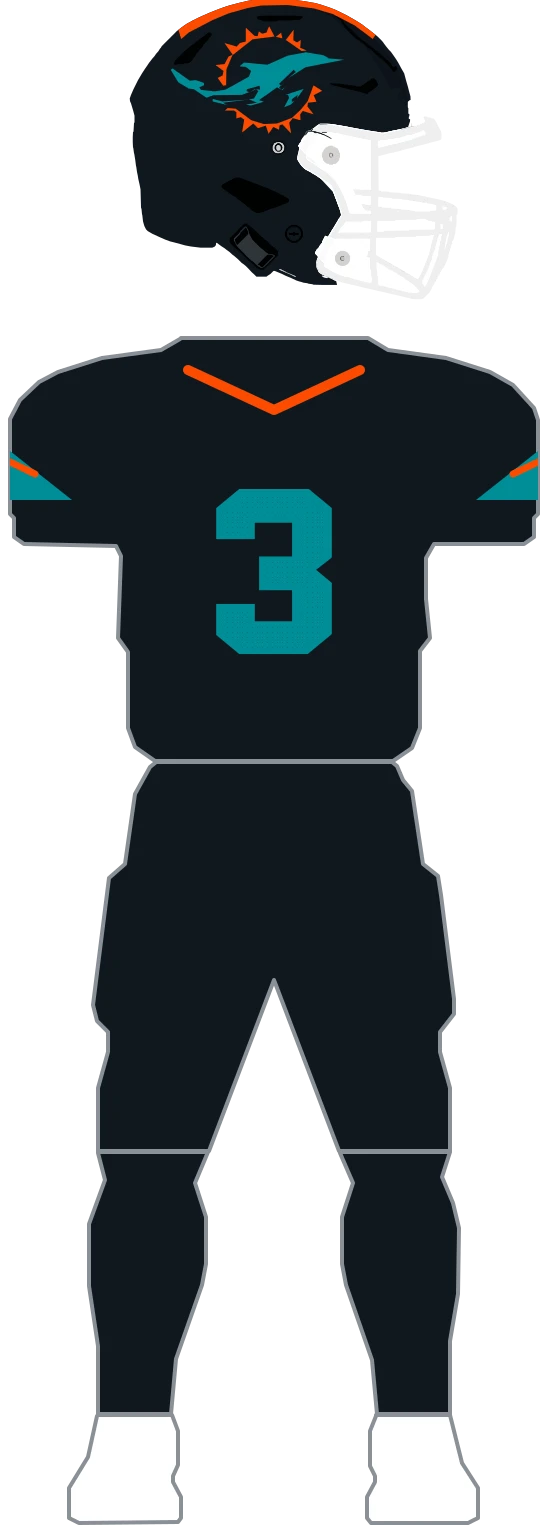
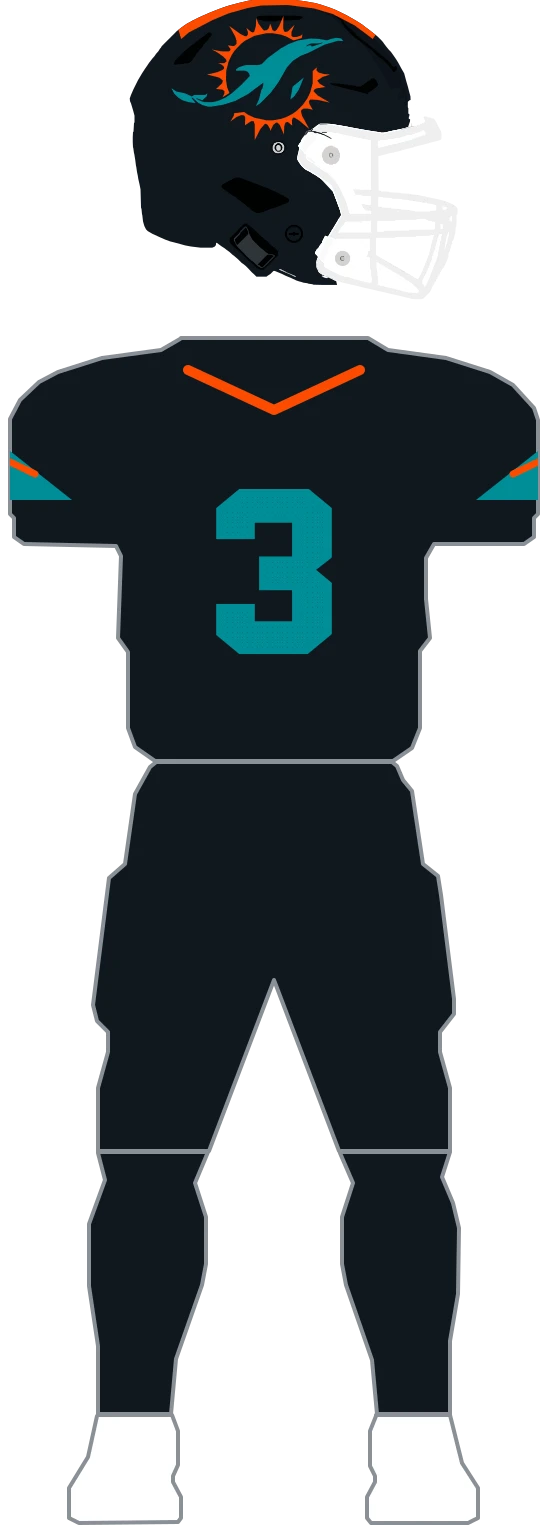
fix(uniforms): re-author Dolphins helmet decal

Changed region(s): [[0.3036, 0.0, 0.6071, 0.0919]]

diff --git a/lib/uniforms/teams/dolphins.ts b/lib/uniforms/teams/dolphins.ts
@@ -23,9 +23,11 @@ export const DOLPHINS_WHITE = '#FFFFFF';
 // teal dolphin breaking through a solid orange ring. The "M" on the throwback dolphin's helmet is
 // dropped (about 2px in the reference).
 export const DOLPHINS_DECAL_SUNBURST_PATH =
-  'M418.0,120.9 L428.6,141.0 L384.8,146.6 L344.2,178.6 L332.3,206.9 L331.7,238.3 L326.0,239.5 L314.8,223.8 L324.8,218.8 L326.6,210.0 L310.4,198.1 L328.5,196.2 L336.7,181.1 L344.8,177.4 L328.5,154.1 L352.9,161.1 L359.2,154.1 L371.1,151.0 L371.1,123.4 L388.6,139.7 L394.8,140.3 L397.3,130.9 L403.6,135.3 L412.3,133.4 L417.3,121.5 Z M466.8,127.8 L466.1,148.5 L473.6,152.9 L481.1,147.9 L479.9,163.6 L493.0,169.2 L482.4,169.8 L451.1,147.9 L466.1,128.4 Z M441.7,133.4 L444.2,144.7 L431.1,141.6 L441.1,134.1 Z M506.8,238.9 L523.7,249.6 L506.8,258.4 L512.4,271.5 L495.5,273.4 L494.3,281.0 L506.8,296.7 L484.9,289.8 L479.9,296.7 L480.5,308.6 L464.9,304.2 L458.0,313.6 L461.8,335.0 L444.2,316.7 L438.6,318.6 L437.4,327.4 L426.1,321.8 L416.7,335.6 L411.1,319.3 L395.5,324.3 L386.1,314.9 L363.6,333.1 L367.9,307.3 L361.1,302.3 L352.3,304.8 L352.3,292.9 L347.9,289.1 L329.2,289.1 L334.8,284.1 L351.0,285.4 L382.3,308.6 L407.3,316.1 L433.6,314.9 L463.6,303.6 L481.1,287.2 L494.9,270.3 L506.2,239.5 Z';
+  'M513.2,202.6 L512.4,208.7 L517.0,213.2 L527.6,216.2 L539.7,217.0 L525.3,221.5 L514.0,229.1 L518.5,235.2 L529.9,242.0 L511.7,245.0 L508.7,246.6 L506.4,250.3 L515.5,259.4 L539.0,273.1 L514.7,267.8 L500.3,267.0 L497.3,270.1 L498.1,275.4 L504.9,287.5 L495.0,285.2 L486.7,285.2 L482.1,288.2 L481.4,291.3 L483.7,299.6 L498.1,326.1 L478.4,309.5 L468.5,303.4 L465.5,303.4 L463.2,308.7 L464.0,319.3 L454.9,311.7 L450.3,313.3 L448.1,320.1 L447.3,336.8 L439.0,317.8 L434.4,313.3 L431.4,313.3 L426.1,317.8 L420.0,329.9 L419.3,325.4 L415.5,318.6 L411.7,315.5 L409.4,315.5 L400.3,326.1 L389.0,348.1 L389.0,317.0 L386.7,310.2 L382.1,310.2 L369.3,318.6 L370.0,302.6 L367.7,298.9 L362.4,298.1 L352.6,301.9 L340.5,311.0 L347.3,298.9 L348.0,294.3 L367.7,292.0 L375.3,297.3 L388.2,303.4 L412.4,308.7 L424.6,308.7 L442.0,305.7 L452.6,301.9 L465.5,295.1 L474.6,288.2 L485.2,277.6 L494.3,264.8 L500.3,251.9 L504.9,234.4 L504.9,210.2 L512.4,203.4 Z M446.5,98.8 L445.8,124.5 L447.3,129.8 L449.6,132.1 L455.6,130.6 L468.5,117.7 L462.4,132.1 L462.4,139.7 L465.5,142.0 L472.3,142.0 L479.9,139.7 L484.4,136.7 L482.9,144.2 L466.2,148.8 L452.6,141.2 L442.0,137.4 L424.6,134.4 L412.4,134.4 L388.2,139.7 L369.3,149.5 L362.4,154.8 L348.8,169.2 L342.7,178.3 L336.7,191.2 L332.1,208.7 L331.4,226.9 L333.6,242.0 L338.2,254.1 L324.6,262.5 L328.3,254.9 L328.3,250.3 L324.6,247.3 L311.7,245.8 L323.8,234.4 L325.3,229.9 L324.6,228.4 L317.7,223.1 L293.5,217.0 L313.9,212.5 L324.6,207.9 L327.6,204.9 L327.6,201.8 L323.0,197.3 L316.2,194.3 L328.3,194.3 L332.9,190.5 L331.4,186.7 L325.3,180.6 L310.9,170.8 L302.6,167.0 L323.0,170.8 L337.4,170.8 L339.7,169.2 L340.5,166.2 L335.2,158.6 L345.8,160.2 L348.8,159.4 L352.6,155.6 L352.6,149.5 L349.6,140.4 L338.2,120.0 L360.2,135.9 L369.3,140.4 L373.0,140.4 L375.3,136.7 L375.3,132.1 L372.3,123.8 L382.1,132.1 L385.9,132.9 L388.2,130.6 L391.2,120.0 L392.0,104.1 L396.5,115.4 L405.6,127.6 L407.9,129.1 L413.2,128.3 L417.0,124.5 L420.0,115.4 L424.6,128.3 L429.1,130.6 L432.9,127.6 L438.2,119.2 L446.5,99.5 Z';
 export const DOLPHINS_DECAL_DOLPHIN_PATH =
-  'M489.9,172.4 L526.8,178.6 L537.4,184.9 L567.5,187.4 L490.5,202.5 L456.8,223.8 L471.1,211.9 L466.8,207.5 L437.4,235.8 L441.7,239.5 L448.6,232.6 L437.4,242.7 L442.4,247.7 L449.9,242.0 L444.2,248.3 L433.6,242.7 L397.3,268.4 L407.3,271.5 L381.1,279.1 L371.1,277.2 L393.6,273.4 L377.3,266.5 L387.3,265.3 L396.1,250.2 L391.1,246.4 L380.4,252.1 L388.6,246.4 L399.8,247.1 L398.6,239.5 L373.6,246.4 L372.3,250.2 L377.9,252.1 L363.6,257.7 L306.6,258.4 L292.2,263.4 L267.2,246.4 L257.2,245.2 L236.0,232.6 L220.9,207.5 L224.7,205.0 L259.1,229.5 L271.0,228.2 L287.2,233.9 L287.9,238.3 L277.9,242.7 L281.6,247.7 L309.1,250.8 L331.0,247.1 L377.3,221.3 L381.7,210.0 L371.1,201.9 L358.6,200.6 L367.3,193.1 L414.2,197.5 L454.9,179.3 L489.3,173.0 Z M487.4,245.2 L473.6,264.6 L474.9,257.7 L463.0,266.5 L463.0,271.5 L468.0,270.3 L461.1,277.2 L448.0,282.2 L458.0,263.4 L455.5,257.7 L450.5,257.7 L486.8,245.8 Z M305.4,265.9 L324.1,270.9 L376.1,267.2 L325.4,273.4 L332.9,277.8 L304.8,270.9 L304.8,266.5 Z';
+  'M551.1,143.5 L561.7,145.0 L566.2,150.3 L555.6,149.5 L529.1,157.1 L495.8,173.8 L480.6,179.9 L466.2,189.0 L454.1,201.8 L435.2,234.4 L422.3,251.9 L401.1,273.8 L391.2,280.7 L397.3,267.0 L402.6,246.6 L404.1,245.8 L406.4,235.9 L405.6,233.7 L375.3,256.4 L349.6,270.1 L325.3,277.6 L301.8,281.4 L295.8,281.4 L285.2,278.4 L276.1,273.8 L263.9,263.2 L262.4,264.0 L270.8,273.8 L259.4,273.1 L244.2,268.5 L235.9,263.2 L227.6,254.9 L222.3,244.3 L232.1,251.1 L250.3,254.9 L263.2,261.0 L267.7,257.9 L289.7,257.9 L294.2,254.9 L292.7,261.0 L284.4,268.5 L273.8,264.8 L271.5,265.5 L282.9,270.8 L289.7,272.3 L304.1,272.3 L314.7,270.1 L330.6,263.2 L342.7,254.9 L362.4,237.5 L379.1,220.0 L377.6,214.7 L373.8,210.9 L369.3,209.4 L351.8,209.4 L351.1,207.1 L356.4,202.6 L370.8,198.1 L395.0,198.1 L402.6,196.5 L415.5,183.6 L441.2,164.7 L457.9,155.6 L476.1,148.8 L500.3,145.0 L516.2,145.8 L533.7,148.8 L541.2,145.8 L550.3,144.2 Z M487.4,222.3 L476.8,248.1 L467.7,261.0 L460.2,267.0 L464.7,241.3 L486.7,223.1 Z';
+export const DOLPHINS_DECAL_NAVY_PATH =
+  'M561.7,152.6 L564.7,153.3 L562.5,158.6 L529.1,182.1 L494.3,214.7 L490.5,227.6 L481.4,248.1 L475.3,257.2 L463.2,267.8 L460.9,267.8 L468.5,261.0 L477.6,248.1 L485.9,229.1 L487.4,224.6 L486.7,222.3 L470.8,235.9 L445.8,253.4 L422.3,267.0 L407.1,273.8 L394.3,282.9 L389.0,281.4 L371.5,287.5 L348.0,291.3 L326.1,291.3 L309.4,289.0 L287.4,282.9 L276.1,277.6 L263.9,277.6 L248.8,274.6 L233.6,266.3 L227.6,260.2 L223.8,254.9 L220.0,245.0 L221.5,244.3 L226.8,254.9 L235.9,264.0 L244.2,269.3 L255.6,273.1 L270.8,274.6 L271.5,273.8 L263.9,264.0 L276.1,274.6 L285.2,279.2 L298.0,282.9 L311.7,285.2 L330.6,285.2 L342.7,283.7 L366.2,277.6 L397.3,264.0 L391.2,276.9 L391.2,281.4 L401.1,274.6 L423.0,251.9 L437.4,232.2 L454.9,201.8 L466.2,189.7 L480.6,180.6 L494.3,174.6 L476.1,185.9 L463.2,198.1 L441.2,233.7 L442.0,235.2 L514.7,174.6 L542.0,158.6 L560.9,153.3 Z M405.6,234.4 L403.3,245.8 L380.6,259.4 L360.9,269.3 L333.6,278.4 L312.4,281.4 L302.6,281.4 L325.3,278.4 L349.6,270.8 L375.3,257.2 L404.9,235.2 Z M409.4,189.0 L402.6,195.8 L395.0,197.3 L370.8,197.3 L360.9,199.6 L351.1,206.4 L352.6,204.1 L358.6,199.6 L370.8,195.0 L408.7,189.7 Z M524.6,152.6 L525.3,153.3 L520.8,155.6 L504.1,160.9 L502.6,160.9 L501.8,158.6 L497.3,158.6 L490.5,161.7 L488.2,164.7 L494.3,157.9 L501.8,154.8 L515.5,154.8 L523.8,153.3 Z M295.0,255.7 L295.8,259.4 L292.0,267.0 L289.7,269.3 L285.2,268.5 L293.5,261.0 L295.0,256.4 Z';
 export const DOLPHINS_TB_DECAL_RING_PATH =
   'M392.3,111.5 L413.0,121.5 L438.0,115.2 L455.5,134.1 L480.5,135.3 L484.3,154.1 L507.4,170.5 L507.4,194.3 L521.8,211.9 L513.0,230.1 L513.7,246.4 L519.3,257.1 L500.5,274.1 L498.0,286.6 L501.2,294.8 L479.9,302.3 L470.5,311.1 L464.3,327.4 L452.4,324.3 L438.6,326.8 L423.6,340.6 L399.8,331.2 L377.3,339.3 L363.6,321.8 L351.0,314.2 L354.8,308.0 L387.9,322.4 L427.4,322.4 L457.4,309.8 L488.0,280.3 L502.4,248.3 L502.4,205.6 L489.3,173.6 L462.4,146.0 L437.4,133.4 L401.1,129.7 L362.3,140.3 L332.9,165.4 L312.9,204.4 L312.9,247.7 L325.4,274.1 L324.1,289.8 L306.0,281.6 L307.9,259.0 L294.7,241.4 L302.3,225.1 L301.6,206.3 L295.4,198.1 L313.5,181.1 L316.0,156.7 L339.2,147.2 L352.9,124.6 L373.6,127.8 L391.7,112.1 Z M429.2,184.9 L432.4,186.8 L429.2,200.0 L413.0,191.2 L416.1,185.5 L423.0,193.7 L428.6,185.5 Z';
 export const DOLPHINS_TB_DECAL_DOLPHIN_PATH =

diff --git a/lib/uniforms/teams/dolphins.parts.ts b/lib/uniforms/teams/dolphins.parts.ts
@@ -10,13 +10,15 @@
 //
 // The kits combine three helmets (white shell, navy rivalries shell, white throwback shell with a
 // teal stripe), four jerseys (teal, white, navy, teal-with-bands), and three pants (white shared by
-// home + 1972, teal, navy).
+// home + 1972, teal, navy). The away kit carries both teal and white pants options; teal stays
+// canonical so its existing raster remains unchanged.
 
 import { HELMET_CROWN_STRIPE_PATH } from './shared';
 import {
   DOLPHINS_COLLAR_PATH,
   DOLPHINS_COLLAR_WIDTH,
   DOLPHINS_DECAL_DOLPHIN_PATH,
+  DOLPHINS_DECAL_NAVY_PATH,
   DOLPHINS_DECAL_SUNBURST_PATH,
   DOLPHINS_SLASH_LEFT,
   DOLPHINS_SLASH_RIGHT,
@@ -65,6 +67,18 @@ function decal(ring: string, dolphin: string, throwback = false): PartLayer[] {
       kind: 'fill',
       fill: dolphin,
     },
+    ...(!throwback
+      ? [
+          {
+            id: 'dolphins-decal-navy',
+            surface: 'helmet' as const,
+            d: DOLPHINS_DECAL_NAVY_PATH,
+            clip: true,
+            kind: 'fill' as const,
+            fill: 'navy',
+          },
+        ]
+      : []),
   ];
 }
 
@@ -192,7 +206,7 @@ const JERSEY_1972: UniformPart = {
 // White pants (P1, shared by home + 1972).
 const PANTS_WHITE: UniformPart = { base: 'white', layers: [] };
 
-// Teal pants (P2, away).
+// Teal pants (P2, away canonical option).
 const PANTS_TEAL: UniformPart = { base: 'teal', layers: [] };
 
 // Navy pants (P3, rivalries).
@@ -218,7 +232,7 @@ export const DOLPHINS_PARTS: TeamPartsDefinition = {
   pants: { white: PANTS_WHITE, teal: PANTS_TEAL, navy: PANTS_NAVY },
   kits: {
     home: { helmet: 'white', jersey: 'teal', pants: 'white' },
-    away: { helmet: 'white', jersey: 'white', pants: 'teal' },
+    away: { helmet: 'white', jersey: 'white', pants: ['teal', 'white'] },
     'rivalries-2025': { helmet: 'navy', jersey: 'navy', pants: 'navy' },
     '1972-throwback': { helmet: 'white1972', jersey: '1972', pants: 'white' },
   },

diff --git a/scripts/uniform-draw/dolphins_decal.py b/scripts/uniform-draw/dolphins_decal.py
@@ -1,0 +1,106 @@
+"""Regenerate the Miami Dolphins helmet decal in ``lib/uniforms/teams/dolphins.ts``.
+
+    python3 scripts/uniform-draw/dolphins_decal.py            # print the paths
+    python3 scripts/uniform-draw/dolphins_decal.py --check    # verify dolphins.ts matches
+
+This is a CONTOUR TRACE based on the approved standalone Dolphins mark, not on the internal
+uniform composite. The upstream mark is Wikimedia's ``File:Miami Dolphins logo.svg``: a
+trademarked, non-free mark used as a fair-use visual reference. No source SVG or raster is
+committed. The internal 2025 GUD composite is used only for placement measurements and pants
+option enumeration.
+
+TOPOLOGY, measured before tracing. Rendering the SVG at its true 250:198 aspect and cropping to
+the painted art gives a 458x333 art box. The usable helmet mark has two orange components (the
+sunburst is split by the dolphin), two teal components (main dolphin and rear fin), and five
+navy components (body/keyline and four small separated details). The apparent white disc and
+white dolphin gaps are shell-coloured negative space, not additional painted layers, so they are
+excluded. The colour predicates are applied to the cropped artwork and components below 30
+pixels are rejected only as antialias debris; all five navy components exceed that threshold.
+
+SELECTION TRAPS. The SVG's white region is not a helmet decal layer: on the white-shell GUD
+reference it is the shell showing through, and on the navy shell the current composite still
+shows the shell between the orange rays. The source also contains separated navy details that
+must not be collapsed into the teal body. Each colour is therefore traced independently, with
+all components sharing one art crop so their relative topology is retained.
+
+PLACEMENT. In the 2025 GUD composite, the current helmet shell is approximately x=59..164,
+y=75..162 and the visible coloured mark is approximately x=72..153, y=91..132: about 12.4%
+left, 77.1% wide, 18.4% top, and 47.1% tall. Those fractions are transferred to raw helmet
+space, then the flat mark's true 458:333 aspect is preserved in the emitted box rather than
+stretching the source to the foreshortened composite height. The established raw placement box
+is ``Box(220.0, 98.0, 347.0, 252.4)``; clipping handles the wrapped rear edge and keeps the
+front extent aligned with the existing helmet landmark.
+
+RENDERER WORKAROUND. qlmanage thumbnails wide SVGs as squares, so this script uses ImageMagick
+at the SVG's true aspect before handing pixels to drawkit. It deliberately delegates masks,
+connected components, contour simplification, path emission, and ``--check`` to drawkit.py.
+The generated paths are mechanically copied into the team module; do not hand-edit them.
+"""
+
+import subprocess
+import sys
+import tempfile
+from pathlib import Path
+
+sys.path.insert(0, str(Path(__file__).resolve().parent))
+
+from PIL import Image  # noqa: E402
+
+from drawkit import Box, components, crop_to_art, main, mask, trace  # noqa: E402
+
+REF = Path.home() / 'Documents/GitHubProjects/nfl-uniform-refs/dolphins/dolphins-mark.svg'
+MODULE = Path(__file__).resolve().parents[2] / 'lib' / 'uniforms' / 'teams' / 'dolphins.ts'
+BOX = Box(220.0, 98.0, 347.0, 252.4)
+MIN_REGION = 30
+EPS = 1.2
+
+
+def render_reference():
+    # Preserve the source aspect before drawkit measures its colour topology; qlmanage would
+    # otherwise letterbox this wide mark into a square thumbnail.
+    with tempfile.TemporaryDirectory() as tmp:
+        rendered = Path(tmp) / 'dolphins-mark.png'
+        subprocess.run(
+            ['magick', '-background', 'white', '-density', '180', str(REF), str(rendered)],
+            check=True,
+            capture_output=True,
+        )
+        return crop_to_art(Image.open(rendered).convert('RGB'))
+
+
+def orange(c):
+    return c[0] > 180 and c[1] < 130 and c[2] < 80
+
+
+def teal(c):
+    return c[1] > 100 and c[1] > c[0] * 1.5 and c[1] > c[2] * 0.9
+
+
+def navy(c):
+    return c[2] > 60 and c[2] > c[0] * 1.3 and c[1] < 130
+
+
+def colour_mask(im, predicate):
+    m, w, h = mask(im, predicate)
+    # Keep every measured component in this shared crop. The source's white negative spaces are
+    # intentionally absent from all three masks.
+    selected = [cell for component in components(m, w, h, MIN_REGION) for cell in component]
+    cells = set(selected)
+    return [[1 if (x, y) in cells else 0 for x in range(w)] for y in range(h)], w, h
+
+
+def build():
+    im = render_reference()
+    out = {}
+    for name, predicate in (
+        ('DOLPHINS_DECAL_SUNBURST_PATH', orange),
+        ('DOLPHINS_DECAL_DOLPHIN_PATH', teal),
+        ('DOLPHINS_DECAL_NAVY_PATH', navy),
+    ):
+        m, w, h = colour_mask(im, predicate)
+        out[name] = trace(m, w, h, BOX, eps=EPS, minsize=MIN_REGION, space='image')
+    return out
+
+
+if __name__ == '__main__':
+    main(build, MODULE)
